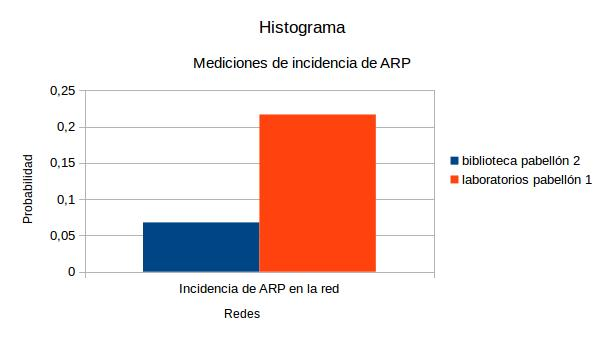
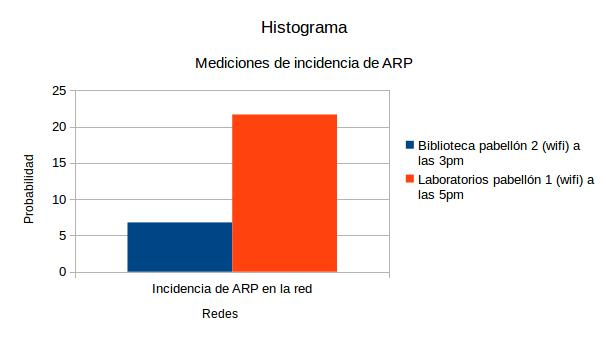
Cambiado nombres de exp-proto y corregido errores ortograficos

diff --git a/latex/experimentos.tex b/latex/experimentos.tex
@@ -8,19 +8,19 @@ En esta sección desarrollaremos y mostraremos los resultados de los experimento
 
 \subsection{Experimento protocolos distinguidos}
 
-Para analizar los protocolos distinguidos fuimos guardando los resultados de sniffear diferentes redes y tomar como fuente de información S el campo .type de los paquetes que se fueron procesando. Fundamentalmente vimos tres tipos de protocolos: ARP, IP (es decir IPv4) e IPv6. Dentro de los paquetes IP pudimos ver que la mayoria, a su vez, llevaban paquetes ICMP, TCP o UDP. A traves de la libreria "Scapy" de "Python" tomamos dos muestras de los paquetes 'Ethernet' que se pudieron detectar:
+Para analizar los protocolos distinguidos fuimos guardando los resultados de sniffear diferentes redes y tomar como fuente de información S el campo .type de los paquetes que se fueron procesando. Fundamentalmente vimos tres tipos de protocolos: ARP, IP (es decir IPv4) e IPv6. Dentro de los paquetes IP pudimos ver que la mayoría, a su vez, llevaban paquetes ICMP, TCP o UDP. A traves de la libreria "Scapy" de "Python" tomamos dos muestras de los paquetes 'Ethernet' que se pudieron detectar:
 
 \begin{itemize}
 \item Dataset 1: Biblioteca pabellon 2 (wifi) a las 3pm
 \item Dataset 2: Laboratorios pabellon 1 (wifi) a las 5pm
 \end{itemize}
 
-Cada dataset contiene todos los paquetes observados junto al protocolo que se uso. De ahi calculamos la cantidad de apariciones de cada protocolo, la probabilidad de aparicion de cada protocolo, calculamos la entropia y la comparamos con la informacion que aporta cada simbolo de S (ARP, IP e IPv6).\\
+Cada dataset contiene todos los paquetes observados junto al protocolo que se uso. De ahí calculamos la cantidad de apariciones de cada protocolo, la probabilidad de aparición de cada protocolo, calculamos la entropía y la comparamos con la información que aporta cada símbolo de S (ARP, IP e IPv6).\\
 
 Por eso, para distinguir \emph{protocolos} tomamos a
 aquellos cuya probabilidad de aparición era alta, de forma que la información provista por el símbolo fuera menor a la entropía de la fuente S.\\
 
-Ahora, para analizar los datos, planteamos histogramas donde podemos ver la cantidad de información $I(s) = -log_2(P(s))$ que aporta cada símbolo de la fuente. Luego lo comparamos con la entropía y definimos los \emph{protocolos distinguidos} como los que son mas bajos que la entropía. Esto lo hicimos porque según la fórmula de Shannon, la entropía $\sum\limits_{s \in S} P(s) * I(s)$ se corresponde con la información promedio que aporta cada símbolo a la fuente. Por lo cual, los símbolos cuya cantidad de información sea mas baja que la entropía son muy predecibles ya que apareceran muchas veces y, por ejemplo, si tuviera que asignarle otro símbolo a cada uno de ellos, me convendría representarlos con menos bits para disminuir la longitud promedio del código. \\
+Ahora, para analizar los datos, planteamos histogramas donde podemos ver la cantidad de información $I(s) = -log_2(P(s))$ que aporta cada símbolo de la fuente. Luego lo comparamos con la entropía y definimos los \emph{protocolos distinguidos} como los que son mas bajos que la entropía. Esto lo hicimos porque según la fórmula de Shannon, la entropía $\sum\limits_{s \in S} P(s) * I(s)$ se corresponde con la información promedio que aporta cada símbolo a la fuente. Por lo cual, los símbolos cuya cantidad de información sea mas baja que la entropía son muy predecibles ya que aparecerán muchas veces y, por ejemplo, si tuviera que asignarle otro símbolo a cada uno de ellos, me convendría representarlos con menos bits para disminuir la longitud promedio del código. \\
 
 Los resultados fueron los siguientes: \\
 
@@ -119,10 +119,9 @@ Los resultados fueron los siguientes: \\
 
 % Discusion ------------------------------------
 
-Por lo que podemos ver, la incidencia de ARP es muy baja en el Dataset 1 ya que en una biblioteca hay poco recambio de dispositivos y pocos hosts, lo cual hace que la incidencia de ARP sea menor. En cambio, si hay muchos mas paquetes IP, lo cual tiene sentido porque es el protocolo que todos los hosts usan para conectarse a internet. Entonces como podemos ver, el unico símbolo predecible menor que la entropía es el de IP, el cual es el único protocolo distinguido en este dataset. \\
+Por lo que podemos ver, la incidencia de ARP es muy baja en el Dataset 1 ya que en una biblioteca hay poco recambio de dispositivos y pocos hosts, lo cual hace que la incidencia de ARP sea menor. En cambio, si hay muchos mas paquetes IP, lo cual tiene sentido porque es el protocolo que todos los hosts usan para conectarse a internet. Entonces como podemos ver, el único símbolo predecible menor que la entropía es el de IP, el cual es el único protocolo distinguido en este dataset. \\
 
 En el segundo Dataset, ya podemos hablar de una red (el Laboratorio de Computación) en la cual no solamente hay muchos mas hosts, sino el recambio de dispositivos que entran y se van de la red es mayor, por lo cual la incidencia de ARP sube. A su vez, IP sigue siendo el protocolo más usado al igual que en el dataset anterior. Tanto la información que aporta ARP como IP superan la entropía de la fuente de información S, por eso ambos son en este caso protocolos distinguidos. \\
-
 % end subsection
 
 \subsection{Experimento incidencia de ARP}
